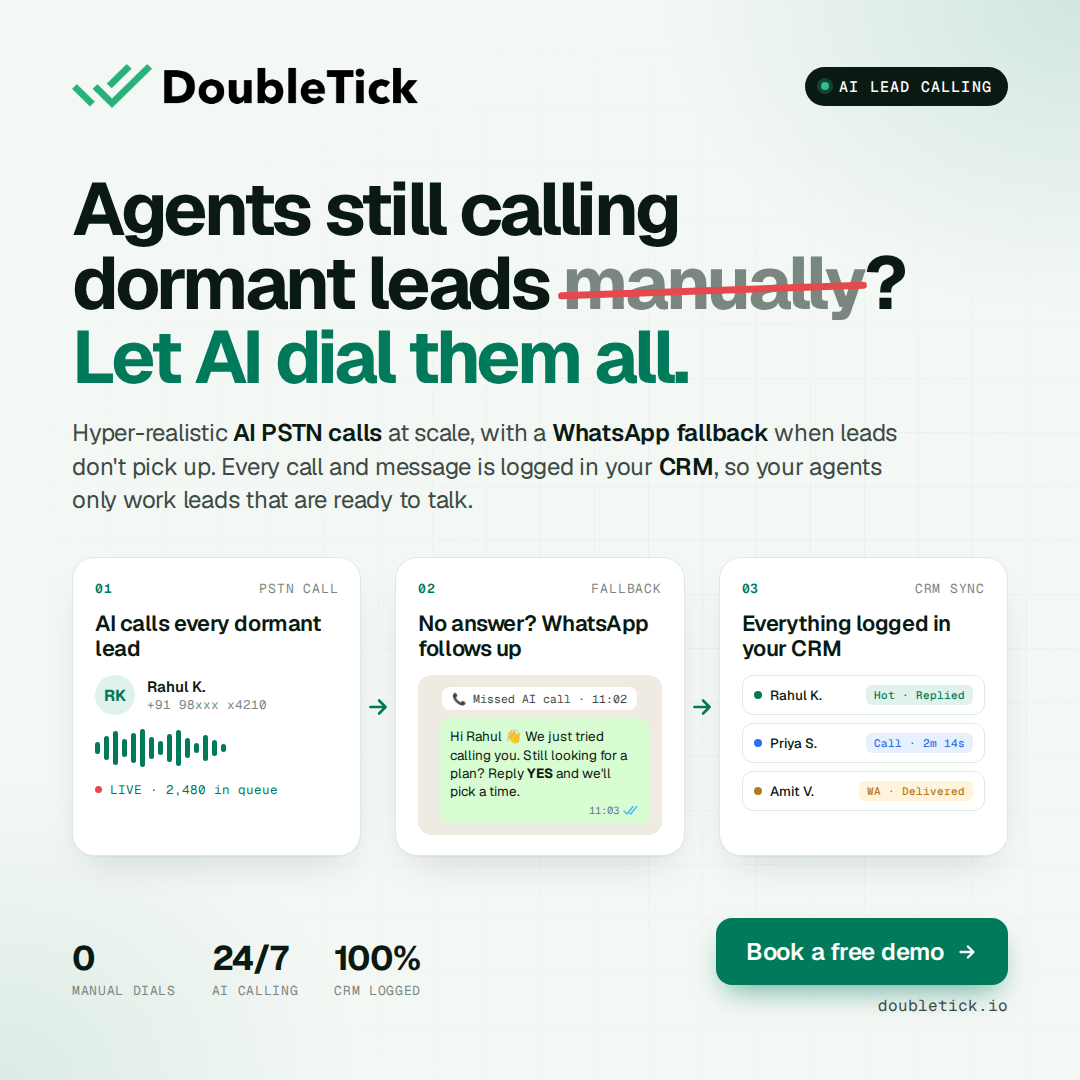
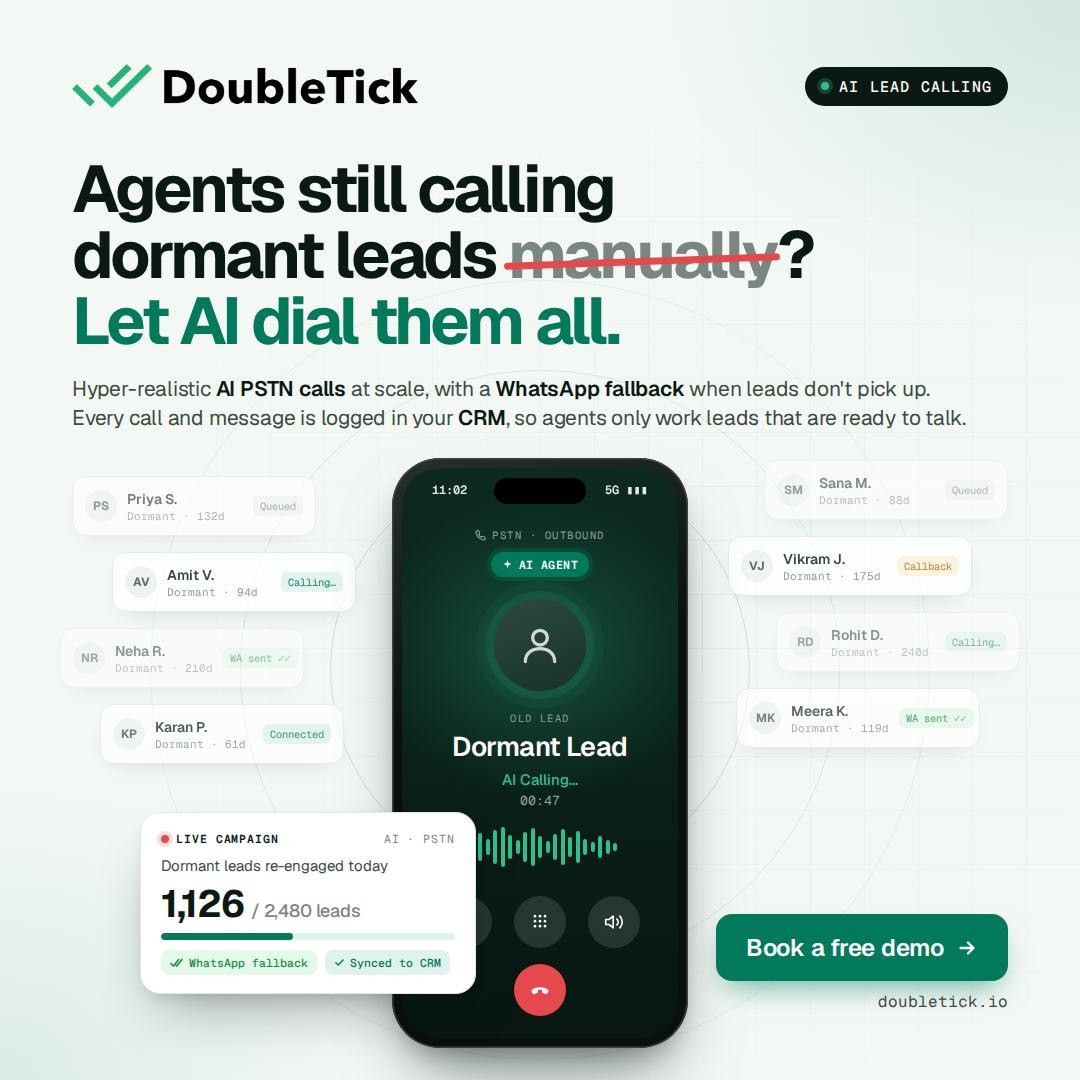
feat: redesign AI calling ad visual around phone call hero
Claude-Session: https://claude.ai/code/session_013Hi5o4KgvuLbKTeGkStAKX

Changed region(s): [[0.0611, 0.1528, 0.9472, 1.0], [0.0611, 0.8556, 0.0917, 0.9167], [0.8861, 0.4278, 0.9167, 0.4583]]

diff --git a/ads/doubletick-ai-calling/index.html b/ads/doubletick-ai-calling/index.html
@@ -61,7 +61,7 @@
 
   /* headline */
   h1 {
-    margin-top: 64px; font-size: 74px; line-height: 1.0; letter-spacing: -0.045em; font-weight: 700;
+    margin-top: 48px; font-size: 66px; line-height: 1.0; letter-spacing: -0.045em; font-weight: 700;
   }
   h1 s { text-decoration: none; position: relative; color: var(--muted); }
   h1 s::after {
@@ -69,54 +69,80 @@
     background: var(--red); border-radius: 4px; transform: rotate(-2deg);
   }
   h1 em { font-style: normal; color: var(--green); }
-  .sub { margin-top: 22px; font-size: 24px; line-height: 1.4; color: var(--ink-2); max-width: 860px; letter-spacing: -0.01em; }
+  .sub { margin-top: 20px; font-size: 21px; line-height: 1.4; color: var(--ink-2); max-width: 900px; letter-spacing: -0.01em; }
   .sub b { color: var(--ink); font-weight: 600; }
 
-  /* flow */
-  .flow { margin-top: 40px; display: grid; grid-template-columns: 1fr 34px 1fr 34px 1fr; align-items: stretch; }
-  .card {
-    background: var(--card); border: 1px solid var(--line); border-radius: 22px; padding: 22px 22px 20px;
-    box-shadow: 0 1px 0 rgba(10,26,18,.03), 0 18px 40px -18px rgba(10,26,18,.18);
-    display: flex; flex-direction: column; gap: 14px;
+  /* hero scene */
+  .hero { position: absolute; left: 0; right: 0; top: 440px; bottom: 0; }
+  .hero > * { position: absolute; }
+
+  /* pulse rings behind phone */
+  .rings { left: 540px; top: 230px; width: 0; height: 0; }
+  .rings i { position: absolute; border-radius: 50%; border: 1.5px solid rgba(0,122,90,.18); transform: translate(-50%, -50%); }
+
+  /* faded lead cards */
+  .lead {
+    width: 244px; height: 60px; padding: 0 12px; border-radius: 14px; background: #fff; border: 1px solid var(--line);
+    display: flex; align-items: center; gap: 10px; box-shadow: 0 10px 24px -14px rgba(10,26,18,.25);
   }
-  .step { display: flex; align-items: center; justify-content: space-between; font-size: 13px; color: var(--muted); letter-spacing: .06em; text-transform: uppercase; }
-  .step span.n { color: var(--green); font-weight: 600; }
-  .card h3 { font-size: 22px; font-weight: 600; letter-spacing: -0.02em; line-height: 1.15; }
-  .arrow { display: grid; place-items: center; }
-  .arrow svg { width: 26px; height: 26px; }
+  .lead .av { width: 32px; height: 32px; border-radius: 50%; display: grid; place-items: center; font-size: 12px; font-weight: 700; flex: none; background: #EEF2F0; color: var(--ink-2); }
+  .lead .nm { font-size: 14px; font-weight: 600; }
+  .lead .dd { font-size: 11px; color: var(--muted); margin-top: 1px; white-space: nowrap; }
+  .lead .st { margin-left: auto; font-size: 10.5px; padding: 3px 7px; border-radius: 6px; font-weight: 500; white-space: nowrap; }
+  .st.q { background: #F1F3F2; color: var(--muted); }
+  .st.c { background: var(--green-soft); color: var(--green); }
+  .st.w { background: #E3F9EA; color: #1A8A47; }
+  .st.y { background: #FFF4DB; color: #B7791F; }
 
-  /* call card */
-  .caller { display: flex; align-items: center; gap: 12px; }
-  .avatar { width: 40px; height: 40px; border-radius: 50%; background: var(--green-soft); color: var(--green); display: grid; place-items: center; font-weight: 700; font-size: 16px; }
-  .caller .who { font-size: 15px; font-weight: 600; }
-  .caller .num { font-size: 12.5px; color: var(--muted); }
-  .wave { display: flex; align-items: center; gap: 4px; height: 38px; }
-  .wave b { width: 5px; border-radius: 3px; background: var(--green); display: block; }
-  .live { font-size: 12.5px; color: var(--green); display: flex; gap: 8px; align-items: center; }
-  .live i { width: 7px; height: 7px; border-radius: 50%; background: var(--red); }
+  /* phone */
+  .phone {
+    left: 392px; top: 18px; width: 296px; height: 590px; border-radius: 48px; padding: 10px;
+    background: linear-gradient(160deg, #26302C, #0B0F0D 40%);
+    box-shadow: 0 0 0 1.5px #3A4540 inset, 0 40px 70px -24px rgba(10,26,18,.55), 0 14px 28px -12px rgba(10,26,18,.35);
+  }
+  .screen {
+    position: relative; width: 100%; height: 100%; border-radius: 38px; overflow: hidden; color: #fff;
+    background:
+      radial-gradient(260px 220px at 50% 32%, rgba(47,191,143,.28), transparent 70%),
+      linear-gradient(180deg, #0D2A20 0%, #071711 100%);
+    display: flex; flex-direction: column; align-items: center; padding: 14px 20px 22px;
+  }
+  .island { width: 92px; height: 26px; border-radius: 14px; background: #000; position: absolute; top: 10px; left: 50%; transform: translateX(-50%); }
+  .sbar { width: 100%; display: flex; justify-content: space-between; font-size: 12px; font-weight: 600; padding: 0 10px; opacity: .9; }
+  .pstn { margin-top: 30px; font-size: 10.5px; letter-spacing: .14em; color: rgba(255,255,255,.55); display: flex; align-items: center; gap: 6px; }
+  .aib { margin-top: 10px; font-size: 11.5px; font-weight: 600; letter-spacing: .04em; background: var(--green); color: #fff; padding: 5px 11px; border-radius: 999px; display: flex; align-items: center; gap: 6px; box-shadow: 0 0 0 4px rgba(0,122,90,.3); }
+  .pav { margin-top: 22px; width: 92px; height: 92px; border-radius: 50%; background: linear-gradient(160deg, #2E4A40, #183229); display: grid; place-items: center; box-shadow: 0 0 0 8px rgba(47,191,143,.12), 0 0 0 18px rgba(47,191,143,.06); }
+  .olabel { margin-top: 20px; font-size: 10.5px; letter-spacing: .14em; color: rgba(255,255,255,.5); }
+  .pname { margin-top: 4px; font-size: 27px; font-weight: 600; letter-spacing: -0.02em; }
+  .pstat { margin-top: 6px; font-size: 15px; color: var(--green-2); font-weight: 500; }
+  .timer { margin-top: 3px; font-size: 13px; color: rgba(255,255,255,.6); }
+  .pwave { margin-top: 18px; display: flex; align-items: center; gap: 3.5px; height: 40px; }
+  .pwave b { width: 4px; border-radius: 2px; background: var(--green-2); display: block; }
+  .ctrls { margin-top: auto; display: grid; grid-template-columns: repeat(3, 52px); gap: 16px 22px; justify-items: center; }
+  .cb { width: 52px; height: 52px; border-radius: 50%; background: rgba(255,255,255,.12); display: grid; place-items: center; }
+  .cb.end { background: #E5484D; grid-column: 2; }
 
-  /* whatsapp card */
-  .chat { background: #EFEAE2; border-radius: 14px; padding: 12px; display: flex; flex-direction: column; gap: 8px; }
-  .miss { align-self: center; font-size: 11.5px; background: #fff; color: var(--ink-2); padding: 4px 10px; border-radius: 8px; }
-  .bubble { align-self: flex-end; background: #D9FDD3; border-radius: 12px 12px 3px 12px; padding: 9px 11px 6px; font-size: 13.5px; line-height: 1.35; max-width: 96%; }
-  .meta { display: flex; justify-content: flex-end; align-items: center; gap: 4px; font-size: 10.5px; color: #667781; margin-top: 3px; }
+  /* front active campaign card */
+  .front {
+    left: 140px; top: 372px; width: 336px; padding: 18px 20px; border-radius: 20px; background: #fff; border: 1px solid var(--line);
+    box-shadow: 0 30px 60px -22px rgba(10,26,18,.4), 0 8px 18px -8px rgba(10,26,18,.18);
+    display: flex; flex-direction: column; gap: 10px;
+  }
+  .front .r { display: flex; align-items: center; justify-content: space-between; font-size: 11.5px; letter-spacing: .08em; text-transform: uppercase; }
+  .front .live { display: flex; align-items: center; gap: 7px; color: var(--ink); font-weight: 600; }
+  .front .live i { width: 8px; height: 8px; border-radius: 50%; background: var(--red); box-shadow: 0 0 0 4px rgba(229,72,77,.18); }
+  .front .t { font-size: 15px; color: var(--ink-2); }
+  .front .big { font-size: 38px; font-weight: 700; letter-spacing: -0.035em; line-height: 1; }
+  .front .big span { font-size: 18px; color: var(--muted); font-weight: 500; letter-spacing: -0.01em; }
+  .bar { height: 7px; border-radius: 4px; background: var(--green-soft); overflow: hidden; }
+  .bar span { display: block; height: 100%; width: 45%; background: var(--green); border-radius: 4px; }
+  .chips { display: flex; gap: 8px; }
+  .chip { font-size: 11.5px; padding: 5px 9px; border-radius: 8px; display: flex; align-items: center; gap: 5px; font-weight: 500; }
+  .chip.wa { background: #E3F9EA; color: #1A8A47; }
+  .chip.crm { background: var(--green-soft); color: var(--green); }
 
-  /* crm card */
-  .rows { display: flex; flex-direction: column; gap: 8px; }
-  .row { display: flex; align-items: center; justify-content: space-between; border: 1px solid var(--line); border-radius: 11px; padding: 9px 11px; font-size: 13.5px; }
-  .row .l { display: flex; align-items: center; gap: 8px; font-weight: 500; }
-  .dot { width: 8px; height: 8px; border-radius: 50%; }
-  .tag { font-size: 11px; padding: 3px 8px; border-radius: 6px; font-weight: 500; }
-  .tag.g { background: var(--green-soft); color: var(--green); }
-  .tag.b { background: #E6F0FF; color: #2F6FEB; }
-  .tag.y { background: #FFF4DB; color: #B7791F; }
-
-  /* footer */
-  .foot { margin-top: auto; display: flex; align-items: center; justify-content: space-between; }
-  .stats { display: flex; gap: 36px; }
-  .stat .v { font-size: 34px; font-weight: 700; letter-spacing: -0.03em; }
-  .stat .k { font-size: 13px; color: var(--muted); letter-spacing: .05em; text-transform: uppercase; margin-top: 2px; }
-  .cta { display: flex; flex-direction: column; align-items: flex-end; gap: 10px; }
+  /* CTA */
+  .cta { right: 72px; top: 474px; display: flex; flex-direction: column; align-items: flex-end; gap: 10px; }
   .btn {
     background: var(--green); color: #fff; font-size: 24px; font-weight: 600; letter-spacing: -0.01em;
     padding: 18px 30px; border-radius: 16px; display: flex; align-items: center; gap: 12px;
@@ -133,59 +159,59 @@
   </div>
 
   <h1>Agents still calling<br/>dormant leads <s>manually</s>?<br/><em>Let AI dial them all.</em></h1>
-  <p class="sub">Hyper-realistic <b>AI PSTN calls</b> at scale, with a <b>WhatsApp fallback</b> when leads don't pick up. Every call and message is logged in your <b>CRM</b>, so your agents only work leads that are ready to talk.</p>
+  <p class="sub">Hyper-realistic <b>AI PSTN calls</b> at scale, with a <b>WhatsApp fallback</b> when leads don't pick up. Every call and message is logged in your <b>CRM</b>, so agents only work leads that are ready to talk.</p>
 
-  <div class="flow">
-    <!-- 1. AI call -->
-    <div class="card">
-      <div class="step mono"><span class="n">01</span><span>PSTN call</span></div>
-      <h3>AI calls every dormant lead</h3>
-      <div class="caller">
-        <div class="avatar">RK</div>
-        <div><div class="who">Rahul K.</div><div class="num mono">+91 98xxx x4210</div></div>
-      </div>
-      <div class="wave">
-        <b style="height:12px"></b><b style="height:24px"></b><b style="height:34px"></b><b style="height:18px"></b><b style="height:30px"></b><b style="height:38px"></b><b style="height:22px"></b><b style="height:14px"></b><b style="height:28px"></b><b style="height:36px"></b><b style="height:20px"></b><b style="height:10px"></b><b style="height:26px"></b><b style="height:16px"></b><b style="height:8px"></b>
-      </div>
-      <div class="live mono"><i></i>LIVE · 2,480 in queue</div>
-    </div>
+  <div class="hero">
+    <div class="rings"><i style="width:420px;height:420px;opacity:1"></i><i style="width:600px;height:600px;opacity:0.7"></i><i style="width:780px;height:780px;opacity:0.45"></i></div>
+    <div class="lead" style="left:72px;top:36px;opacity:0.55"><div class="av">PS</div><div><div class="nm">Priya S.</div><div class="dd mono">Dormant · 132d</div></div><span class="st q mono">Queued</span></div>
+    <div class="lead" style="left:112px;top:112px;opacity:0.8"><div class="av">AV</div><div><div class="nm">Amit V.</div><div class="dd mono">Dormant · 94d</div></div><span class="st c mono">Calling…</span></div>
+    <div class="lead" style="left:60px;top:188px;opacity:0.45"><div class="av">NR</div><div><div class="nm">Neha R.</div><div class="dd mono">Dormant · 210d</div></div><span class="st w mono">WA sent ✓✓</span></div>
+    <div class="lead" style="left:100px;top:264px;opacity:0.7"><div class="av">KP</div><div><div class="nm">Karan P.</div><div class="dd mono">Dormant · 61d</div></div><span class="st c mono">Connected</span></div>
+    <div class="lead" style="left:764px;top:20px;opacity:0.5"><div class="av">SM</div><div><div class="nm">Sana M.</div><div class="dd mono">Dormant · 88d</div></div><span class="st q mono">Queued</span></div>
+    <div class="lead" style="left:728px;top:96px;opacity:0.8"><div class="av">VJ</div><div><div class="nm">Vikram J.</div><div class="dd mono">Dormant · 175d</div></div><span class="st y mono">Callback</span></div>
+    <div class="lead" style="left:776px;top:172px;opacity:0.45"><div class="av">RD</div><div><div class="nm">Rohit D.</div><div class="dd mono">Dormant · 240d</div></div><span class="st c mono">Calling…</span></div>
+    <div class="lead" style="left:736px;top:248px;opacity:0.65"><div class="av">MK</div><div><div class="nm">Meera K.</div><div class="dd mono">Dormant · 119d</div></div><span class="st w mono">WA sent ✓✓</span></div>
 
-    <div class="arrow"><svg viewBox="0 0 24 24" fill="none" stroke="#007A5A" stroke-width="2.4" stroke-linecap="round" stroke-linejoin="round"><path d="M5 12h14M13 6l6 6-6 6"/></svg></div>
-
-    <!-- 2. WhatsApp fallback -->
-    <div class="card">
-      <div class="step mono"><span class="n">02</span><span>Fallback</span></div>
-      <h3>No answer? WhatsApp follows up</h3>
-      <div class="chat">
-        <div class="miss mono">📞 Missed AI call · 11:02</div>
-        <div class="bubble">Hi Rahul 👋 We just tried calling you. Still looking for a plan? Reply <b>YES</b> and we'll pick a time.
-          <div class="meta mono">11:03
-            <svg width="16" height="11" viewBox="0 0 16 11" fill="none" stroke="#53BDEB" stroke-width="1.6" stroke-linecap="round" stroke-linejoin="round"><path d="M1 6l3 3 6-7.5"/><path d="M7 8.2l.8.8 6-7.5"/></svg>
-          </div>
+    <div class="phone">
+      <div class="screen">
+        <div class="island"></div>
+        <div class="sbar mono"><span>11:02</span><span>5G ▮▮▮</span></div>
+        <div class="pstn mono">
+          <svg width="11" height="11" viewBox="0 0 24 24" fill="none" stroke="currentColor" stroke-width="2.4" stroke-linecap="round" stroke-linejoin="round"><path d="M22 16.9v3a2 2 0 0 1-2.2 2 19.8 19.8 0 0 1-8.6-3.1 19.5 19.5 0 0 1-6-6A19.8 19.8 0 0 1 2.1 4.2 2 2 0 0 1 4.1 2h3a2 2 0 0 1 2 1.7c.1.9.4 1.8.7 2.7a2 2 0 0 1-.5 2.1L8 9.8a16 16 0 0 0 6 6l1.3-1.3a2 2 0 0 1 2.1-.4c.9.3 1.8.6 2.7.7a2 2 0 0 1 1.7 2z"/></svg>
+          PSTN · OUTBOUND
+        </div>
+        <div class="aib mono">
+          <svg width="11" height="11" viewBox="0 0 24 24" fill="#fff"><path d="M12 2l2.2 6.6L21 11l-6.8 2.4L12 20l-2.2-6.6L3 11l6.8-2.4z"/></svg>
+          AI AGENT
+        </div>
+        <div class="pav">
+          <svg width="44" height="44" viewBox="0 0 24 24" fill="none" stroke="rgba(255,255,255,.8)" stroke-width="1.8" stroke-linecap="round" stroke-linejoin="round"><circle cx="12" cy="8" r="4"/><path d="M4 21c0-4.4 3.6-7 8-7s8 2.6 8 7"/></svg>
+        </div>
+        <div class="olabel mono">OLD LEAD</div>
+        <div class="pname">Dormant Lead</div>
+        <div class="pstat">AI Calling…</div>
+        <div class="timer mono">00:47</div>
+        <div class="pwave"><b style="height:10px"></b><b style="height:18px"></b><b style="height:28px"></b><b style="height:16px"></b><b style="height:34px"></b><b style="height:40px"></b><b style="height:24px"></b><b style="height:14px"></b><b style="height:30px"></b><b style="height:38px"></b><b style="height:22px"></b><b style="height:12px"></b><b style="height:26px"></b><b style="height:36px"></b><b style="height:20px"></b><b style="height:32px"></b><b style="height:16px"></b><b style="height:10px"></b><b style="height:22px"></b><b style="height:14px"></b><b style="height:8px"></b></div>
+        <div class="ctrls">
+          <div class="cb"><svg width="20" height="20" viewBox="0 0 24 24" fill="none" stroke="#fff" stroke-width="2" stroke-linecap="round" stroke-linejoin="round"><rect x="9" y="2" width="6" height="12" rx="3"/><path d="M5 10v1a7 7 0 0 0 14 0v-1M12 18v4"/></svg></div>
+          <div class="cb"><svg width="20" height="20" viewBox="0 0 24 24" fill="#fff"><circle cx="6" cy="5" r="1.6"/><circle cx="12" cy="5" r="1.6"/><circle cx="18" cy="5" r="1.6"/><circle cx="6" cy="11" r="1.6"/><circle cx="12" cy="11" r="1.6"/><circle cx="18" cy="11" r="1.6"/><circle cx="6" cy="17" r="1.6"/><circle cx="12" cy="17" r="1.6"/><circle cx="18" cy="17" r="1.6"/></svg></div>
+          <div class="cb"><svg width="20" height="20" viewBox="0 0 24 24" fill="none" stroke="#fff" stroke-width="2" stroke-linecap="round" stroke-linejoin="round"><path d="M11 5L6 9H2v6h4l5 4z"/><path d="M15.5 8.5a5 5 0 0 1 0 7M19 5a10 10 0 0 1 0 14"/></svg></div>
+          <div class="cb end"><svg width="22" height="22" viewBox="0 0 24 24" fill="#fff"><path d="M12 9c-3.2 0-6.2.9-8.6 2.6-.6.4-.8 1.2-.5 1.9l1.1 2.2c.3.6 1 .9 1.7.7l2.9-.9c.6-.2 1-.7 1-1.3V12c1.6-.4 3.2-.4 4.8 0v2.2c0 .6.4 1.1 1 1.3l2.9.9c.7.2 1.4-.1 1.7-.7l1.1-2.2c.3-.7.1-1.5-.5-1.9C18.2 9.9 15.2 9 12 9z"/></svg></div>
         </div>
       </div>
     </div>
 
-    <div class="arrow"><svg viewBox="0 0 24 24" fill="none" stroke="#007A5A" stroke-width="2.4" stroke-linecap="round" stroke-linejoin="round"><path d="M5 12h14M13 6l6 6-6 6"/></svg></div>
-
-    <!-- 3. CRM -->
-    <div class="card">
-      <div class="step mono"><span class="n">03</span><span>CRM sync</span></div>
-      <h3>Everything logged in your CRM</h3>
-      <div class="rows">
-        <div class="row"><span class="l"><span class="dot" style="background:#007A5A"></span>Rahul K.</span><span class="tag g mono">Hot · Replied</span></div>
-        <div class="row"><span class="l"><span class="dot" style="background:#2F6FEB"></span>Priya S.</span><span class="tag b mono">Call · 2m 14s</span></div>
-        <div class="row"><span class="l"><span class="dot" style="background:#B7791F"></span>Amit V.</span><span class="tag y mono">WA · Delivered</span></div>
+    <div class="front">
+      <div class="r mono"><span class="live"><i></i>Live campaign</span><span style="color:var(--muted)">AI · PSTN</span></div>
+      <div class="t">Dormant leads re-engaged today</div>
+      <div class="big">1,126 <span>/ 2,480 leads</span></div>
+      <div class="bar"><span></span></div>
+      <div class="chips">
+        <span class="chip wa mono"><svg width="14" height="10" viewBox="0 0 16 11" fill="none" stroke="#1A8A47" stroke-width="1.8" stroke-linecap="round" stroke-linejoin="round"><path d="M1 6l3 3 6-7.5"/><path d="M7 8.2l.8.8 6-7.5"/></svg>WhatsApp fallback</span>
+        <span class="chip crm mono"><svg width="11" height="11" viewBox="0 0 24 24" fill="none" stroke="#007A5A" stroke-width="3" stroke-linecap="round" stroke-linejoin="round"><path d="M4 12.5l5 5L20 6.5"/></svg>Synced to CRM</span>
       </div>
     </div>
-  </div>
 
-  <div class="foot">
-    <div class="stats">
-      <div class="stat"><div class="v">0</div><div class="k mono">Manual dials</div></div>
-      <div class="stat"><div class="v">24/7</div><div class="k mono">AI calling</div></div>
-      <div class="stat"><div class="v">100%</div><div class="k mono">CRM logged</div></div>
-    </div>
     <div class="cta">
       <div class="btn">Book a free demo
         <svg width="22" height="22" viewBox="0 0 24 24" fill="none" stroke="#fff" stroke-width="2.6" stroke-linecap="round" stroke-linejoin="round"><path d="M5 12h14M13 6l6 6-6 6"/></svg>
